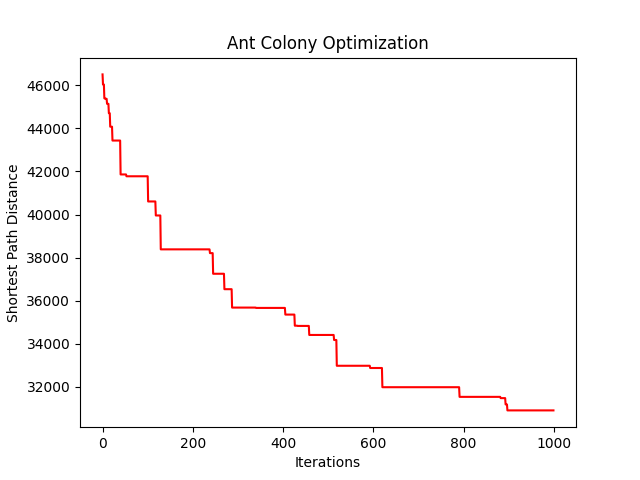
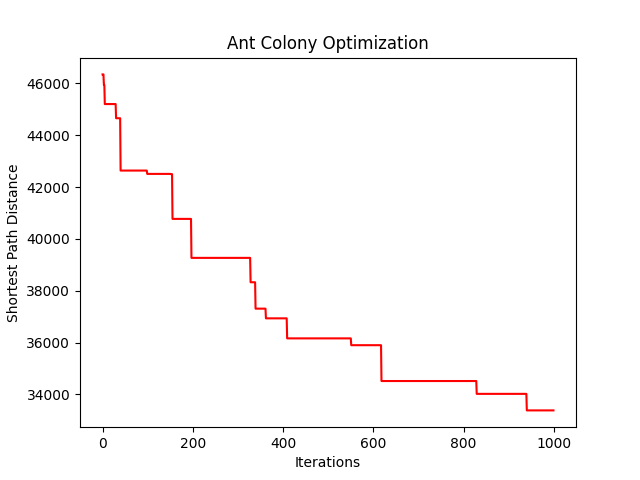
Changes to be committed: 	modified:   baseline.py 	modified:   baseline_nodes-30_drones-10.png 	new file:   baseline_nodes-30_drones-10.txt 	modified:   globals.py 	modified:   multiantcolony_nodes-200_drones-20.png 	modified:   multiantcolony_nodes-200_drones-20.txt 	modified:   multiantcolony_node

diff --git a/globals.py b/globals.py
@@ -7,7 +7,7 @@ Contains all global variables specific to simulation
 xMax = 1000
 yMax = 1000
 seedValue = 1
-numNodes = 200 # 检查点数量
+numNodes = 30 # 检查点数量
 numGenerations = 70
 # size of population
 populationSize = 100 
@@ -15,7 +15,7 @@ mutationRate = 0.02
 tournamentSize = 10
 elitism = True
 # number of trucks
-numTrucks = 20# 无人机数量
+numTrucks = 10# 无人机数量
 
 def random_range(n, total, ub, lb):
     """Return a randomly chosen list of n positive integers summing to total.

diff --git a/baseline.py b/baseline.py
@@ -33,6 +33,9 @@ fig = plt.figure()
 plt.plot(xaxis, yaxis, 'r-')
 plt.xlabel('Iterations')
 plt.ylabel('Shortest Path Distance')
-plt.title('Ant Colony Optimization')
+plt.title('Baseline')
 fig.savefig(f'baseline_nodes-{numNodes}_drones-{numTrucks}.png')
+with open(f'baseline_nodes-{numNodes}_drones-{numTrucks}.txt', 'w') as f:
+    print('Global minimum distance: ' + str(globalRoute.getDistance()), file=f)
+    print('Final Route: ' + globalRoute.toString(), file=f)
 plt.show()
